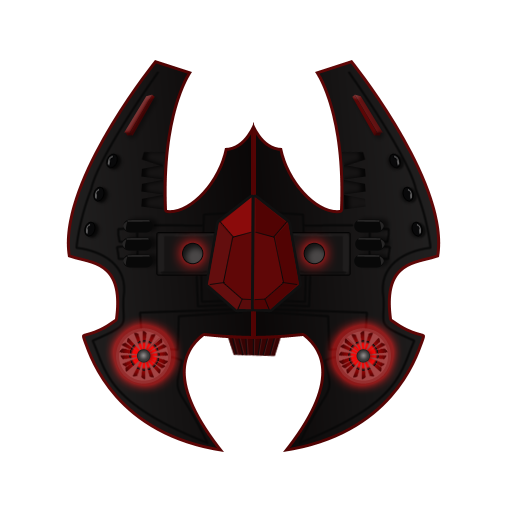
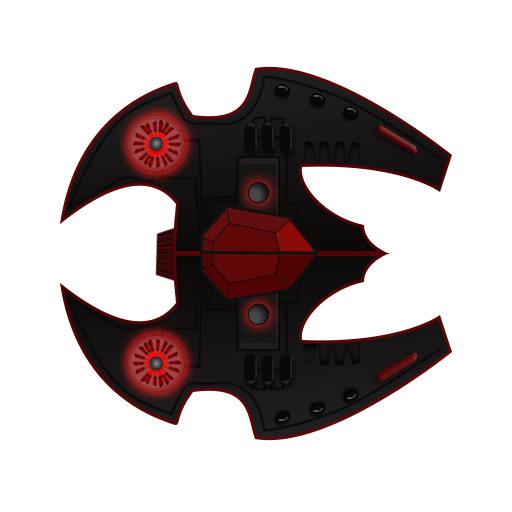
Movemeant made like asteroids. Asteroids now come from all angles

diff --git a/Asteroids/Asteroids/playerShip.cpp b/Asteroids/Asteroids/playerShip.cpp
@@ -13,7 +13,7 @@ Player::Player()
 	sprite.setTexture(texture);
 	REAL_SIZE = PLAYER_SIZE * 0.2;
 	sprite.setOrigin(sprite.getGlobalBounds().width / 2, sprite.getGlobalBounds().height / 2);
-	sprite.setScale(0.2, 0.2);
+	sprite.setScale(0.15, 0.15);
 	
 	location = { 200,300,0 };
 	
@@ -24,12 +24,8 @@ Player::Player()
 
 void Player::update()
 {
+	friction();
 	location = location + velocity;
-	if (velocity.length() > 20)
-	{
-
-		velocity = { 1,0,0 };
-	}
 	sprite.setPosition(location);
 	checkBorders();
 }
@@ -54,81 +50,65 @@ sf::Sprite Player::getBody2()
 
 void Player::rotate(sf::Event t_event)
 {
-	if (t_event.key.code == sf::Keyboard::A)
+
+	lookDirection.x = cos(angle);
+	lookDirection.y = sin(angle);
+	
+	sprite.setRotation(angle * (180 / 3.14159265359));
+
+	velocity = lookDirection;
+	// get keyboard input.
+
+
+	// get keyboard input.
+	if (sf::Keyboard::isKeyPressed(sf::Keyboard::A))
 	{
-		sprite.rotate(-3);
+		angle -= 0.25;
+
+	}
+	if (sf::Keyboard::isKeyPressed(sf::Keyboard::D))
+	{
+		angle += 0.25;
+	}
+	if (sf::Keyboard::isKeyPressed(sf::Keyboard::W))
+	{
+		if (speed < MAX_FORWARD_SPEED)
+		{
+			speed += acceleration;
+		}
 	}
 
-	if (t_event.key.code == sf::Keyboard::D)
-	{
-		sprite.rotate(3);
-	}
 
-	if (t_event.key.code == sf::Keyboard::Left)
-	{
-		moveLeft();
-	}
-
-	if (t_event.key.code == sf::Keyboard::Right)
-	{
-		moveRight();
-	}
-
-	if (t_event.key.code == sf::Keyboard::Up)
-	{
-		moveForward();
-	}
-
-	if (t_event.key.code == sf::Keyboard::Down)
-	{
-		moveDown();
-	}
+	velocity.y *= speed;
+	velocity.x *= speed;
 }
 
-void Player::moveLeft()
-{
-	MyVector3 move = { -1, 0, 0 };
-	velocity = velocity + move;
-
-}
-
-void Player::moveRight()
-{
-	MyVector3 move = { 1, 0, 0 };
-	velocity = velocity + move;
-}
-
-void Player::moveForward()
-{
-	MyVector3 move = { 0, -1, 0 };
-	velocity = velocity + move;
-}
-
-void Player::moveDown()
-{
-	MyVector3 move = { 0, 1, 0 };
-	velocity = velocity + move;
-}
 
 void Player::checkBorders()
 {
-	if (location.x > 950)
+	if (location.x > 800)
 	{
 		location.x = location.x - 1080;
 	}
 
-	if (location.x < -150)
+	if (location.x < 0 - REAL_SIZE)
 	{
 		location.x = location.x + 1080;
 	}
 
-	if (location.y > 750)
+	if (location.y >= 600)
 	{
 		location.y = location.y - 880;
 	}
 
-	if (location.y < -150)
+	if (location.y < 0 -REAL_SIZE)
 	{
 		location.y = location.y + 880;
 	}
+}
+
+void Player::friction()
+{
+	velocity.x = velocity.x * 0.996;
+	velocity.y = velocity.y * 0.996;
 }

diff --git a/Asteroids/Asteroids/AsteroidsLarge.cpp b/Asteroids/Asteroids/AsteroidsLarge.cpp
@@ -27,14 +27,27 @@ void AsteroidsLarge::positioning()
 	double randomVelocityX = 0;
 	double randomVelocityY = 0;
 	
-	randomVelocityX = rand() % 9 - 5;
+	randomVelocityX = rand() % 10 - 5;
 
-	randomVelocityY = rand() % 4 + 1;
+	
 
 	randomX = rand() % 600 + 1;
-	originalLocation = { randomX,-75,0 };
 
-	velocity = { randomVelocityX,randomVelocityY,0 };
+	int northOrSouth = rand() % 2 + 1;
+
+	if (northOrSouth == 1)
+	{
+		originalLocation = { randomX,0,0 };
+		randomVelocityY = rand() % 6 + 1;
+		velocity = { randomVelocityX,randomVelocityY,0 };
+	}
+
+	if (northOrSouth == 2)
+	{
+		originalLocation = { randomX,800,0 };
+		randomVelocityY = rand() % 1 - 6;
+		velocity = { randomVelocityX,randomVelocityY,0 };
+	}
 
 }
 
@@ -51,7 +64,8 @@ void AsteroidsLarge::checkBorders()
 		location = originalLocation;
 	}
 
-	if (location.y > 805)
+
+	if (location.y > 805 || location.y < -5)
 	{
 		location = originalLocation;
 	}

diff --git a/Asteroids/Asteroids/AsteroidsSmall.cpp b/Asteroids/Asteroids/AsteroidsSmall.cpp
@@ -11,9 +11,10 @@ AsteroidsSmall::AsteroidsSmall()
 
 	sprite.setTexture(asteroidTexture);
 
-	originalLocation = { 1000,1000,1000 };
+	originalLocation = { 10000,10000,0 };
 
 	location = originalLocation;
+	sprite.setPosition(location);
 }
 
 
@@ -34,16 +35,28 @@ void AsteroidsSmall::move()
 
 void AsteroidsSmall::checkBorders()
 {
-	if (location.x > 805 || location.x < -5)
+	if (location.x > 600)
 	{
-		location = originalLocation;
+		location.x = location.x - 600;
 
 	}
 
-	if (location.y > 805)
+	if (location.x < 0)
+	{
+		location.x = location.x + 600;
+
+	}
+
+	if (location.y > 800)
 	{
 
-		location = originalLocation;
+		location.y = location.y - 800;
+	}
+
+	if (location.y < 0)
+	{
+
+		location.y = location.y + 800;
 	}
 }
 

diff --git a/Asteroids/Asteroids/playerShip.h b/Asteroids/Asteroids/playerShip.h
@@ -12,6 +12,14 @@ class Player
 	float REAL_SIZE = 0;
 	MyVector3 location;
 	MyVector3 velocity;
+
+
+	float angle = 3.14159265359 / 16.0;
+
+	float speed = 0.0f;
+	float acceleration = 0.17f;
+	const float MAX_FORWARD_SPEED = 40.0f;
+	MyVector3 lookDirection;
 public:
 
 	Player();
@@ -25,4 +33,5 @@ public:
 	void update();
 	void moveDown();
 	void checkBorders();
+	void friction();
 };

diff --git a/Asteroids/Asteroids/AsteroidsLarge.h b/Asteroids/Asteroids/AsteroidsLarge.h
@@ -22,7 +22,7 @@ public:
 	sf::Sprite sprite;
 	sf::Texture asteroidTexture;
 
-
+	int northOrSouth =1;
 	sf::Sprite getLargeAsteroid();
 
 	void wasShot();
